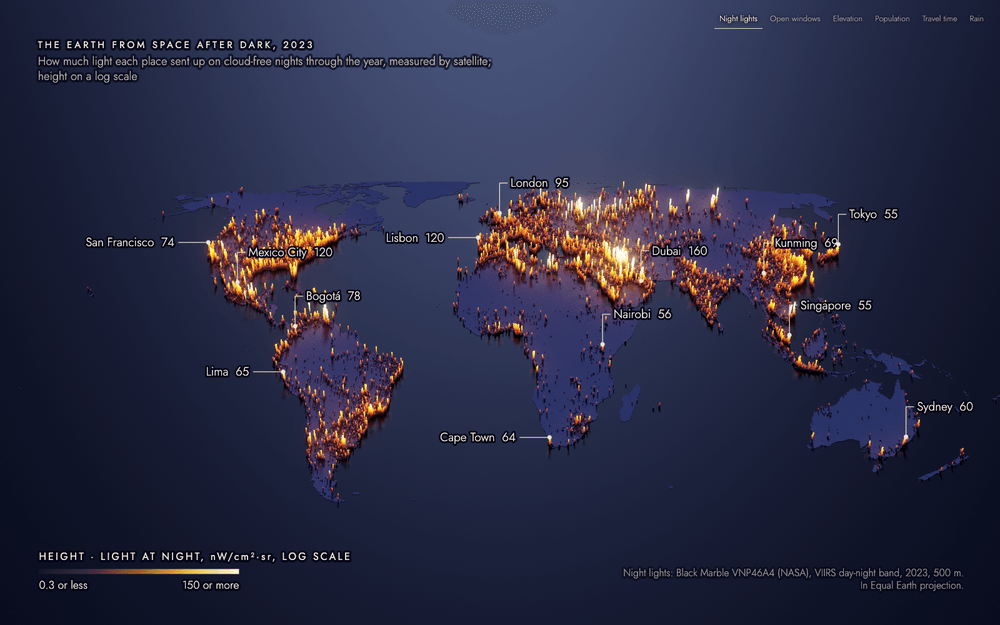
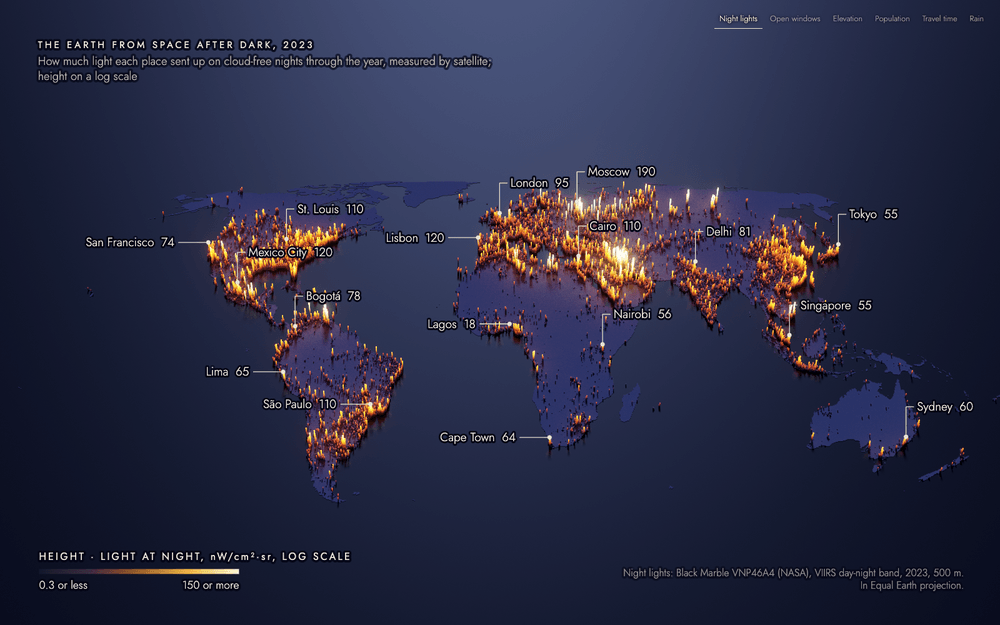
worldColumns: more city labels (St. Louis first), skipping any that would overlap

diff --git a/worldColumns/main.js b/worldColumns/main.js
@@ -220,21 +220,48 @@ const current = () => MAPS[params.map];
 // Where the labels point: mild highlands and coasts, and the hot, cold and
 // muggy places that make the contrast. Names on the left sit out over the
 // water.
-const LEFT = new Set(['San Francisco', 'Lima', 'Lisbon', 'Cape Town']);
+const LEFT = new Set([
+  'San Francisco',
+  'Lima',
+  'Lisbon',
+  'Cape Town',
+  'Los Angeles',
+  'São Paulo',
+  'Lagos',
+]);
+// In order of priority: where labels would overlap, the later one is left
+// out, so zooming in shows more of them.
 const PLACES = {
+  'St. Louis': [38.63, -90.2],
+  London: [51.51, -0.13],
+  Tokyo: [35.68, 139.69],
+  'New York': [40.71, -74.01],
   'San Francisco': [37.77, -122.42],
   'Mexico City': [19.43, -99.13],
-  Bogotá: [4.71, -74.07],
-  Lima: [-12.05, -77.04],
-  Lisbon: [38.72, -9.14],
-  London: [51.51, -0.13],
-  Nairobi: [-1.29, 36.82],
-  'Cape Town': [-33.92, 18.42],
-  Dubai: [25.2, 55.27],
-  Kunming: [25.04, 102.71],
-  Singapore: [1.35, 103.82],
-  Tokyo: [35.68, 139.69],
+  'São Paulo': [-23.55, -46.63],
+  Lagos: [6.52, 3.38],
+  Cairo: [30.04, 31.24],
+  Moscow: [55.76, 37.62],
+  Delhi: [28.61, 77.21],
+  Beijing: [39.9, 116.4],
   Sydney: [-33.87, 151.21],
+  'Cape Town': [-33.92, 18.42],
+  Nairobi: [-1.29, 36.82],
+  Dubai: [25.2, 55.27],
+  Singapore: [1.35, 103.82],
+  Lima: [-12.05, -77.04],
+  Bogotá: [4.71, -74.07],
+  Lisbon: [38.72, -9.14],
+  Kunming: [25.04, 102.71],
+  Chicago: [41.88, -87.63],
+  'Los Angeles': [34.05, -118.24],
+  Paris: [48.86, 2.35],
+  Mumbai: [19.08, 72.88],
+  Shanghai: [31.23, 121.47],
+  Jakarta: [-6.21, 106.85],
+  'Buenos Aires': [-34.6, -58.38],
+  Reykjavík: [64.15, -21.94],
+  Anchorage: [61.22, -149.9],
 };
 
 // Equal Earth (Šavrič, Patterson and Jenny 2018), as in build/export.py,
@@ -913,7 +940,10 @@ function drawOverlay(c, w, h) {
   }
 
   if (!params.labels || map.labels === false) return;
-  // City labels: a dot on the column's top and a fine leader to the name.
+  // City labels: a dot on the column's top and a fine leader to the name,
+  // skipping any whose name would overlap one already drawn.
+  const taken = [];
+  c.font = `300 ${12 * u}px ${FONT}`;
   for (const {name, value, tip} of labels) {
     projected.copy(tip).project(camera);
     if (projected.z > 1 || Math.abs(projected.x) > 1.2) continue;
@@ -922,6 +952,19 @@ function drawOverlay(c, w, h) {
     // Leaders on the left run straight out over the water; the rest rise.
     const side = LEFT.has(name) ? -1 : 1;
     const top = side < 0 ? y : y - 30 * u;
+    const text = `${name}  ${value === NO_VALUE ? '–' : map.format(value)}`;
+    const tx = x + side * (side < 0 ? 34 : 11) * u;
+    const tw = c.measureText(text).width;
+    const box = [
+      Math.min(x, side < 0 ? tx - tw : tx) - 4 * u,
+      top - 10 * u,
+      Math.max(x, side < 0 ? tx : tx + tw) + 4 * u,
+      Math.max(y, top + 8 * u) + 3 * u,
+    ];
+    const hits = (b) =>
+      box[0] < b[2] && b[0] < box[2] && box[1] < b[3] && b[1] < box[3];
+    if (taken.some(hits)) continue;
+    taken.push(box);
     c.strokeStyle = look().ink;
     c.lineWidth = Math.max(0.75, 0.8 * u);
     c.beginPath();
@@ -932,13 +975,10 @@ function drawOverlay(c, w, h) {
     c.beginPath();
     c.arc(x, y, 2.2 * u, 0, Math.PI * 2);
     c.fill();
-    const text = `${name}  ${value === NO_VALUE ? '–' : map.format(value)}`;
-    c.font = `300 ${12 * u}px ${FONT}`;
     c.lineWidth = 4 * u;
     c.strokeStyle = look().halo;
     c.lineJoin = 'round';
     c.textAlign = side < 0 ? 'right' : 'left';
-    const tx = x + side * (side < 0 ? 34 : 11) * u;
     c.strokeText(text, tx, top + 4 * u);
     c.fillText(text, tx, top + 4 * u);
     c.textAlign = 'left';
